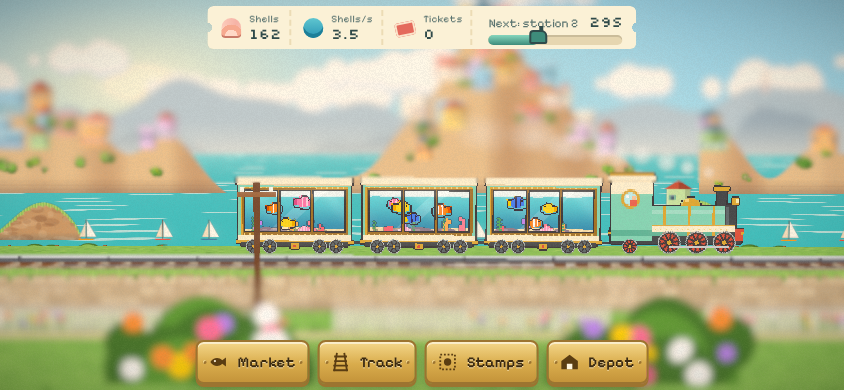
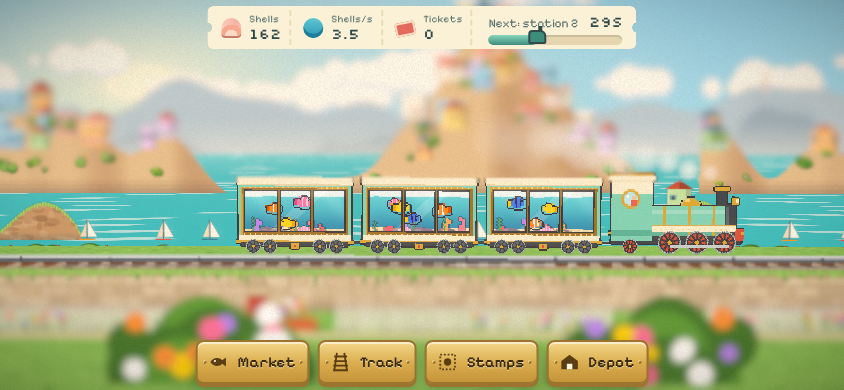
feat: Vite scaffold, HD-2D side-on diorama, placeholder train, post-FX and HUD skeleton (T-01)

diff --git a/src/ui/hud.css b/src/ui/hud.css
@@ -96,12 +96,12 @@ body { font-family: var(--font-head); color: var(--ink); -webkit-tap-highlight-c
 @keyframes rot { 0%, 25% { transform: rotate(0); } 55%, 85% { transform: rotate(-90deg); } 100% { transform: rotate(0); } }
 .mini-track { position: relative; height: 40px; overflow: hidden; border-bottom: 4px solid #7b8790;
   background: repeating-linear-gradient(90deg, transparent 0 10px, #9a6a45 10px 14px) bottom / 100% 6px no-repeat; }
-.mini-train { position: absolute; bottom: 6px; display: flex; gap: 3px; align-items: flex-end; animation: ride 4s linear infinite; }
+.mini-train { position: absolute; bottom: 6px; display: flex; gap: 3px; align-items: flex-end; animation: ride 5s linear infinite; }
 .mini-train i { display: block; height: 20px; border: 2px solid var(--ink); border-radius: 3px; background: linear-gradient(var(--paper) 0 30%, #bfeef0 30% 70%, var(--seafoam) 70%); width: 34px; }
 .mini-train .loco { order: 9; width: 30px; height: 24px; background: var(--seafoam); border-radius: 3px 10px 3px 3px; position: relative; }
 .mini-train .loco::before { content: ''; position: absolute; top: -9px; right: 5px; width: 6px; height: 8px; background: var(--ink); }
 .mini-train i:not(.loco) { animation: bob 0.5s ease-in-out infinite alternate; }
-@keyframes ride { from { transform: translateX(-160px); } to { transform: translateX(360px); } }
+@keyframes ride { from { left: -150px; } to { left: 100%; } }
 @keyframes bob { to { transform: translateY(-1px); } }
 
 @media (orientation: portrait) and (max-width: 820px) {

diff --git a/src/render/diorama/paintNear.ts b/src/render/diorama/paintNear.ts
@@ -79,14 +79,16 @@ export function paintNear(seed: number, variant: number): HTMLCanvasElement {
   if (variant === 0) {
     lemonTree(p, r, 250, base, 16);
   } else {
-    // telegraph pole with wire stubs
-    ctx.fillStyle = SUNNY.woodDark;
-    ctx.fillRect(250, 2, 4, base - 2);
-    ctx.fillStyle = SUNNY.wood;
-    ctx.fillRect(240, 8, 24, 3);
-    ctx.fillStyle = '#fffaf0';
-    ctx.fillRect(242, 5, 2, 3);
-    ctx.fillRect(260, 5, 2, 3);
+    // little red post box + planter (kept low so it never hides the train)
+    ctx.fillStyle = '#d65a4a';
+    ctx.fillRect(244, base - 22, 12, 22);
+    ctx.fillStyle = '#b8463a';
+    ctx.fillRect(244, base - 22, 12, 3);
+    ctx.fillStyle = '#2f2a2a';
+    ctx.fillRect(247, base - 16, 6, 2);
+    ctx.fillStyle = '#d9714d';
+    ctx.fillRect(262, base - 8, 26, 8);
+    flowers(p, r, 275, base - 8, 12, 22);
   }
   return p.canvas;
 }

diff --git a/src/render/diorama/sea.ts b/src/render/diorama/sea.ts
@@ -28,7 +28,7 @@ void main() {
   float scale = mix(1.0, 0.25, d);
   float w1 = sin(vWorld.x * 0.55 * scale + uTime * 0.9 + sin(zf * 0.35 + uTime * 0.4) * 1.6 + zf * 0.15);
   float w2 = sin(zf * 1.7 + sin(vWorld.x * 0.21) * 2.0 - uTime * 0.6);
-  float crest = smoothstep(0.86, 0.98, w1 * 0.5 + w2 * 0.5 + 0.15);
+  float crest = smoothstep(0.78, 0.95, w1 * 0.5 + w2 * 0.5 + 0.15);
   col = mix(col, uFoam, crest * mix(0.55, 0.15, d));
   // sun glitter path
   float glit = exp(-pow((vWorld.x - uSunX) / mix(10.0, 90.0, d), 2.0)) * smoothstep(0.05, 0.6, d);

diff --git a/src/render/train/steam.ts b/src/render/train/steam.ts
@@ -56,9 +56,9 @@ export class Steam {
       }
       p.mesh.position.x += p.vx * dt;
       p.mesh.position.y += p.vy * dt * (1 - k * 0.6);
-      const s = 0.25 + k * 0.9;
+      const s = 0.32 + k * 1.3;
       p.mesh.scale.set(s, s, 1);
-      p.mat.opacity = Math.min(1, k * 6) * (1 - k) * 0.85;
+      p.mat.opacity = Math.min(1, k * 6) * (1 - k) * 0.95;
     }
   }
 }

diff --git a/pm/handoffs/T-01.md b/pm/handoffs/T-01.md
@@ -1,0 +1,32 @@
+# T-01 handoff — DEV: scaffold + side-on diorama renderer
+
+**Status:** done. `npm run build` passes with 0 TS errors. `npm test` is green (51 tests, including other tickets' tests). `npm run shots` exits 0 with no console errors.
+
+## What exists
+- Configs: `package.json` (scripts dev/build/preview/test/shots), `tsconfig.json` (strict), `vite.config.ts`, `index.html`, `vercel.json`.
+- **Assets:** `publicDir: 'assets'`, so `assets/x.png` is served at `/x.png`. `src/assets.ts` maps manifest keys to URLs. A `virtual:asset-list` plugin in `vite.config.ts` lists the files that exist, so missing art is never requested (no 404s) and the procedural placeholder stays in use.
+- `src/render/diorama/`: camera rig with FOV 22° and 4° tilt, easing, sway and drag/wheel pan.
+  - Scenery is made of real-Z `TileLayer`s: sky + clouds, sea shader, far headlands, mid cliff village, mid islets, verge, track bed, rail, wall, garden, fence strip and lens foliage.
+  - Stations repeat every 64 units.
+  - All placeholder art is painted procedurally in `paint*.ts`, using the palette in `src/render/paint/palette.ts`.
+- `src/render/train/`: locomotive plus 3 glass tank carriages.
+  - Each tank interior is a shader: water, sand caustics, decor, plant sway and a water-line tilt that sloshes on brake and pull-away.
+  - Fish are pixel sprites that mirror with a squash when they turn.
+  - Wheels and rods turn with speed, carriages rock on rail joints from front to back, and steam puffs scale with speed.
+  - `motion.ts`: 6 s stop, then an eased leg.
+- `src/render/post/`: tilt-shift (own pass), bloom, grade (lift/gain/sat/warm with `setTimeOfDay`), vignette and noise. High/Low quality; `FpsGuard` drops to Low after 3 s below 45 FPS.
+- `src/ui/hud.ts` + `hud.css`: ticket-style top bar, brass bottom buttons (44 px or more), and a portrait rotate card with a CSS mini train.
+- `src/util/format.ts` with tests in `tests/unit/format.test.ts`; `tests/unit/ease.test.ts`.
+- `scripts/shots.ts`: `npm run shots [-- <url>] [--query "..."] [--name X]`. It defaults to `quality=high`.
+
+## URL params
+- `?fast=1`: 5 s legs.
+- `?quality=high|low`: locks quality (the default is auto).
+- `?warp=N`: pre-advances N seconds.
+- `window.__debug.setTimeOfDay('dusk')` and `setQuality`.
+
+## Notes / for later tickets
+- Leg, stop and HUD demo numbers are placeholders in `src/render/placeholder.ts`. T-04 should drive these from the sim and data.
+- formatNumber: SPEC B7 says scientific notation starts at 1e18, so "Qi" (1e18) never shows in short mode. The ticket's "1.2Qi" contradicts the spec, and I followed the spec.
+- The train only runs forward through stations at k×64. Shuttling back and forth over built track comes with the sim.
+- Screens: `docs/qa/screens/T-01_*.png` (at a station) and `T-01_moving_*.png` (`warp=16`, mid-leg).
